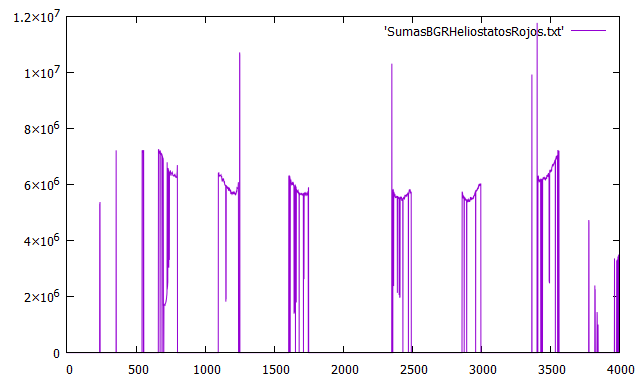
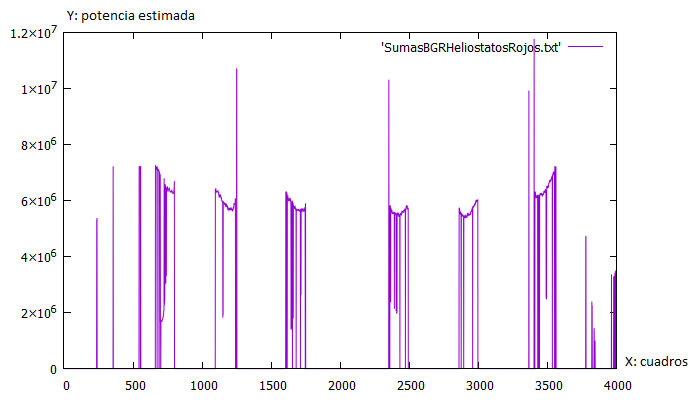
Agregando al informe la nueva grafica obtenida para el video 'un_heliostato.mp4' (es de una grafica que primero sube, luego se mantiene constante y despues baja), he comentado dicha grafica en el informe, he puesto los nombres de las coordenadas XY de todas las graficas, y he agregado mas conclusion

diff --git a/doc/Cap5ConclusionesYPosiblesLineasTrabajoFuturo.tex b/doc/Cap5ConclusionesYPosiblesLineasTrabajoFuturo.tex
@@ -5,3 +5,5 @@ El poder tener una estimación (lo más realista posible) de la potencia refleja
 Por otro lado, el cálculo de la "variable que estima la potencia" se realiza tiempo real con las herramientas actuales de prototipado del algoritmo (como Python), por lo que se puede decir que el algoritmo estaría preparado para ser aplicado en una planta termosolar, en este momento, para realizar los ensayos de calibración orientados a obtener la correlación.
 
 Finalmente, dar agradecimientos al centro PSA-CIEMAT por haber puesto a disposición la imágenes utilizadas en este TFG, y al centro mixto CIESOL por los espacios utilizados en las frecuentes reuniones con los tutores en la UAL.
+
+Debido al control automático del diafragma de la cámara, genera una perturbación al obtener las gráficas de las estimaciones de potencia de los helióstatos para algunos vídeos, y los glitches/caídas se pueden atribuir a esto. Uno de los trabajos a futuro, podría consistir en controlar desde el programa el diafragma de la cámara para que no genere estos ruidos.

diff --git a/doc/main.tex b/doc/main.tex
@@ -120,7 +120,11 @@
 \bibliography{main}
 
 \afterpage{\null\newpage} % insertar pagina en blanco al final del informe
-\newpage
+
+\fancyhf{} % sets both header and footer to nothing
+\renewcommand{\headrulewidth}{0pt}
+%\lhead{}                                                                             
+%\rhead{}  
 
 \backgroundsetup{
  scale=1, %escala
@@ -132,13 +136,6 @@
   \includegraphics[width=\paperwidth,height=\paperheight]{TFG_II_back.pdf}
  }%
 }
-
-\newpage
-
-\fancyhf{} % sets both header and footer to nothing                                   
-\renewcommand{\headrulewidth}{0pt}
-%\lhead{}                                                                             
-%\rhead{}  
 
 \BgThispage
 
